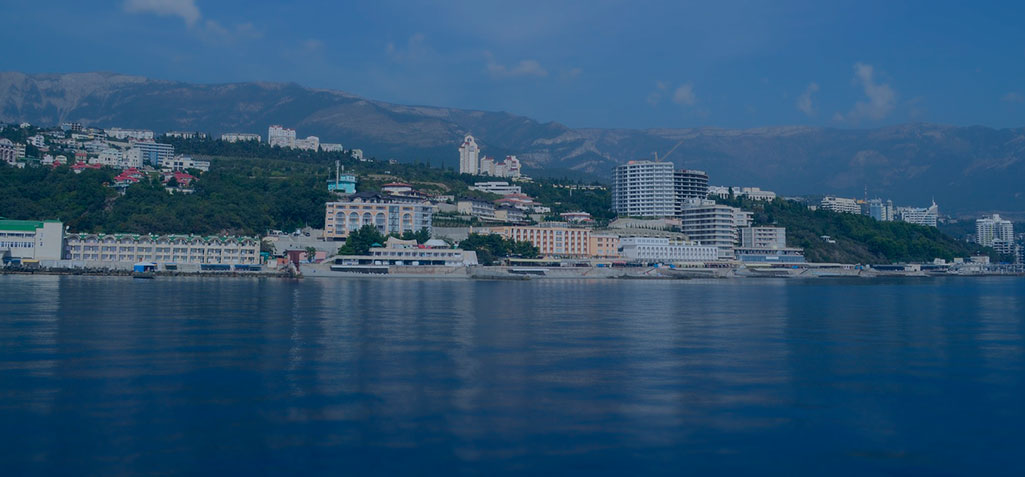
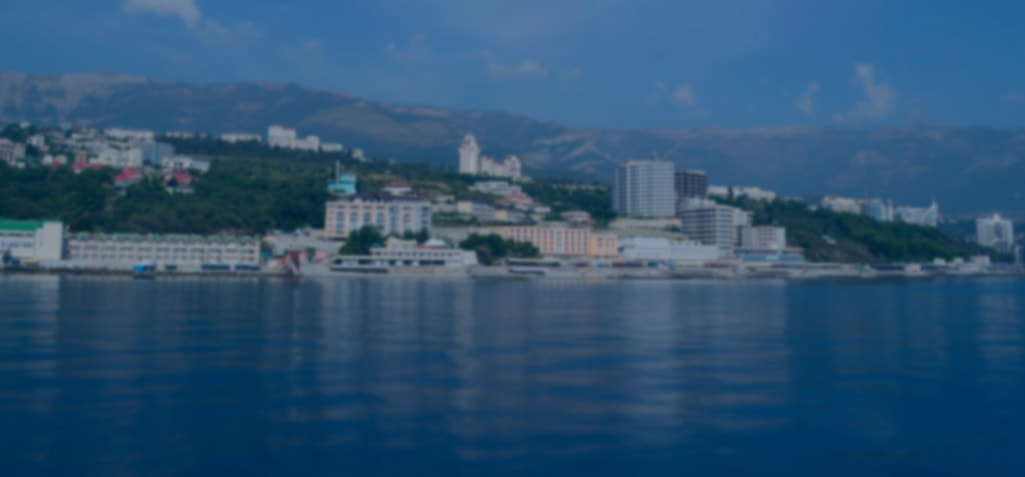
Перенос на другой домен

diff --git a/catalog/view/theme/yaltaland/css/styles.css b/catalog/view/theme/yaltaland/css/styles.css
@@ -57,6 +57,10 @@ header {
 	background-image: -webkit-linear-gradient(bottom, #264f8e 0%, #0b2f68 100%);
 	background-image: -o-linear-gradient(bottom, #264f8e 0%, #0b2f68 100%);
 	background-image: linear-gradient(to top, #264f8e 0%, #0b2f68 100%);
+	background-image: url(../images/bg-head.jpg);
+	background-size: cover;
+	background-repeat: no-repeat;
+	background-position: center center;
 }
 
 header .header-title {
@@ -498,7 +502,7 @@ header .header-tel a {
 	color: white;
 	font-size: 14px;
 	font-weight: 400;
-	padding: 30px 0 0px 35px;
+	padding: 30px 0 0px 0px;
 }
 
 .bottom-line-footer .too-top {
